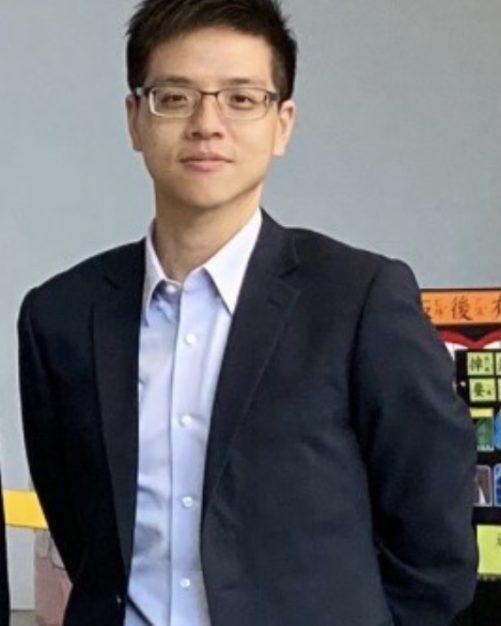
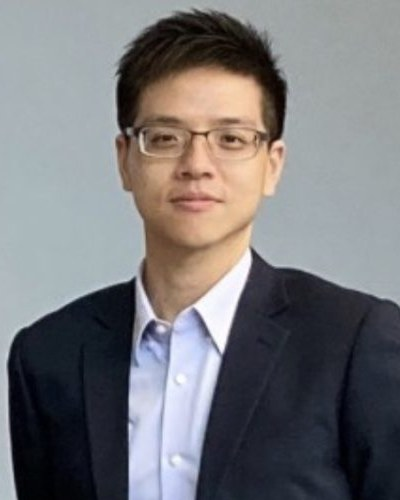
Full-colour speaker portraits; add Yuhan, recrop Wang
Portraits no longer use a greyscale/sepia filter (black-and-white
portraits of living people read as memorial photos). Adds Yuhan's
portrait and recrops Wang's so the full head sits at the top.

diff --git a/src/app/globals.css b/src/app/globals.css
@@ -558,12 +558,13 @@ a.myco-tree-label:hover b { color: var(--cinnabar); }
 .sheet--full .sheet-body { grid-template-columns: minmax(0, .7fr) minmax(0, 1.3fr); }
 @media (max-width: 620px) { .sheet-body, .sheet--full .sheet-body { grid-template-columns: 1fr; } .sheet .mounted--md { max-width: 280px; } }
 .mounted { position: relative; aspect-ratio: 4 / 5; border: 1px solid var(--ink); background: repeating-linear-gradient(-38deg, transparent 0 5px, rgba(28, 26, 23, .08) 5px 6px), #EFE8D8; display: grid; place-items: center; text-align: center; color: var(--sepia); }
-.mounted img { width: 100%; height: 100%; object-fit: cover; filter: grayscale(1) sepia(.35) contrast(1.05); mix-blend-mode: multiply; }
+/* Portraits stay in full colour: black-and-white portraits of living people read as memorial photos. */
+.mounted img { position: relative; z-index: 0; width: 100%; height: 100%; object-fit: cover; }
 .mounted .ph { display: grid; justify-items: center; gap: 10px; padding: 10px; }
 .mounted .initial { font-weight: 600; font-size: clamp(3rem, 8vw, 5.4rem); color: var(--ink); opacity: .85; line-height: 1; }
 .mounted--sm .initial { font-size: 2.6rem; }
 .mounted .ph-flag { font-family: var(--f-mono); font-size: var(--t-xs); letter-spacing: .14em; line-height: 1.8; padding: 6px 10px; background: var(--sheet); border: .5px dashed var(--cinnabar); color: var(--cinnabar); }
-.tape { position: absolute; width: 52px; height: 15px; background: rgba(232, 223, 203, .92); border: .5px solid rgba(94, 81, 65, .35); }
+.tape { position: absolute; z-index: 1; width: 52px; height: 15px; background: rgba(232, 223, 203, .92); border: .5px solid rgba(94, 81, 65, .35); }
 .mounted--sm .tape { width: 34px; height: 10px; }
 .tape.a { top: -7px; left: 12px; transform: rotate(-8deg); }
 .tape.b { top: -7px; right: 12px; transform: rotate(7deg); }

diff --git a/src/components/Specimen.tsx b/src/components/Specimen.tsx
@@ -58,7 +58,7 @@ export function Barcode({ code }: { code: string }) {
 }
 
 /**
- * Mounted portrait. With `photo` it shows the image in an ink/sepia duotone;
+ * Mounted portrait. With `photo` it shows the image in full colour (never greyscale);
  * without, an engraved placeholder card clearly marked for the client.
  */
 export function Portrait({ s, size = "md", lang = "zh" }: { s: Speaker; size?: "sm" | "md"; lang?: Lang }) {

diff --git a/src/content/speakers.ts b/src/content/speakers.ts
@@ -147,6 +147,7 @@ export const SPEAKERS: Speaker[] = [
     id: "yuhan",
     name: { zh: "Yuhan", en: "Goh Yu Han" },
     nameEn: "Goh Yu Han · SALAD Dressing",
+    photo: "/speakers/yuhan-4x5.jpg",
     initial: { zh: "Y", en: "G" },
     eyebrow: "Landscape Architecture · Singapore",
     short: "SALAD Dressing · Singapore",
